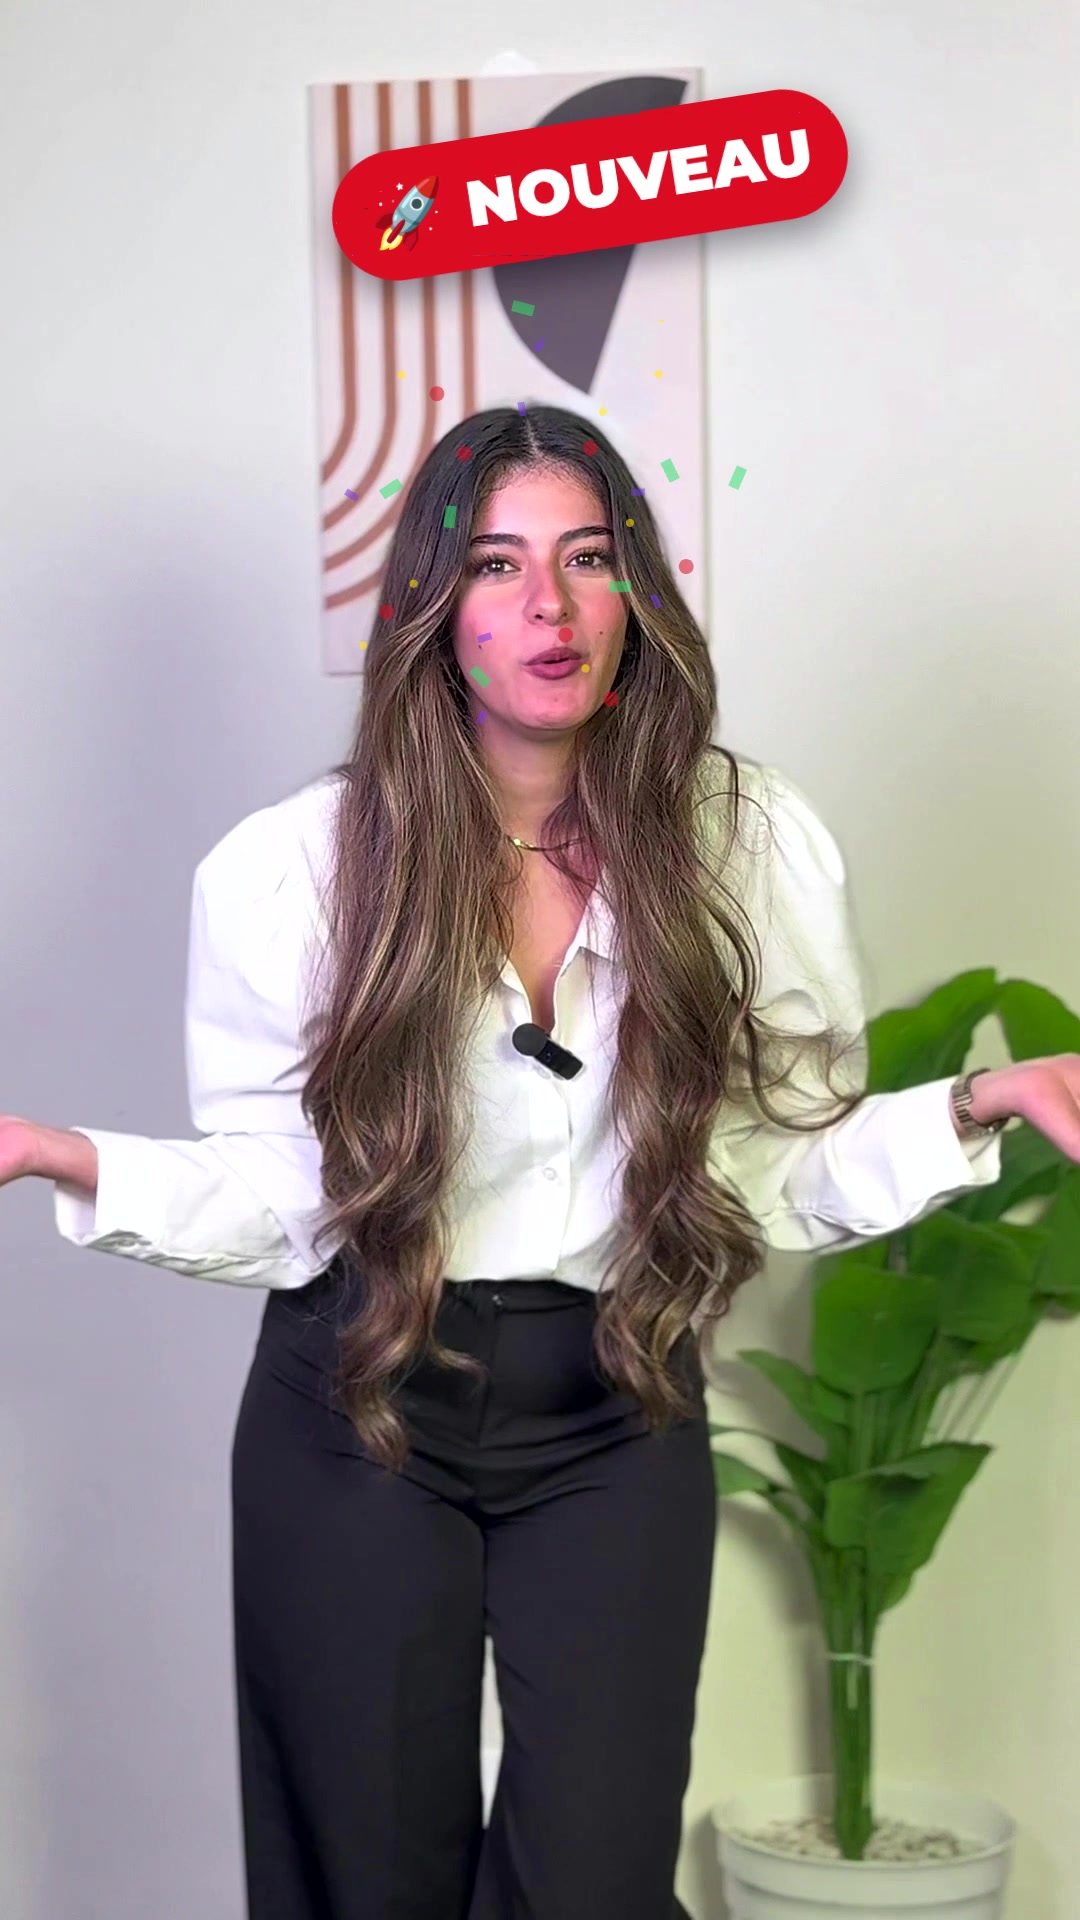
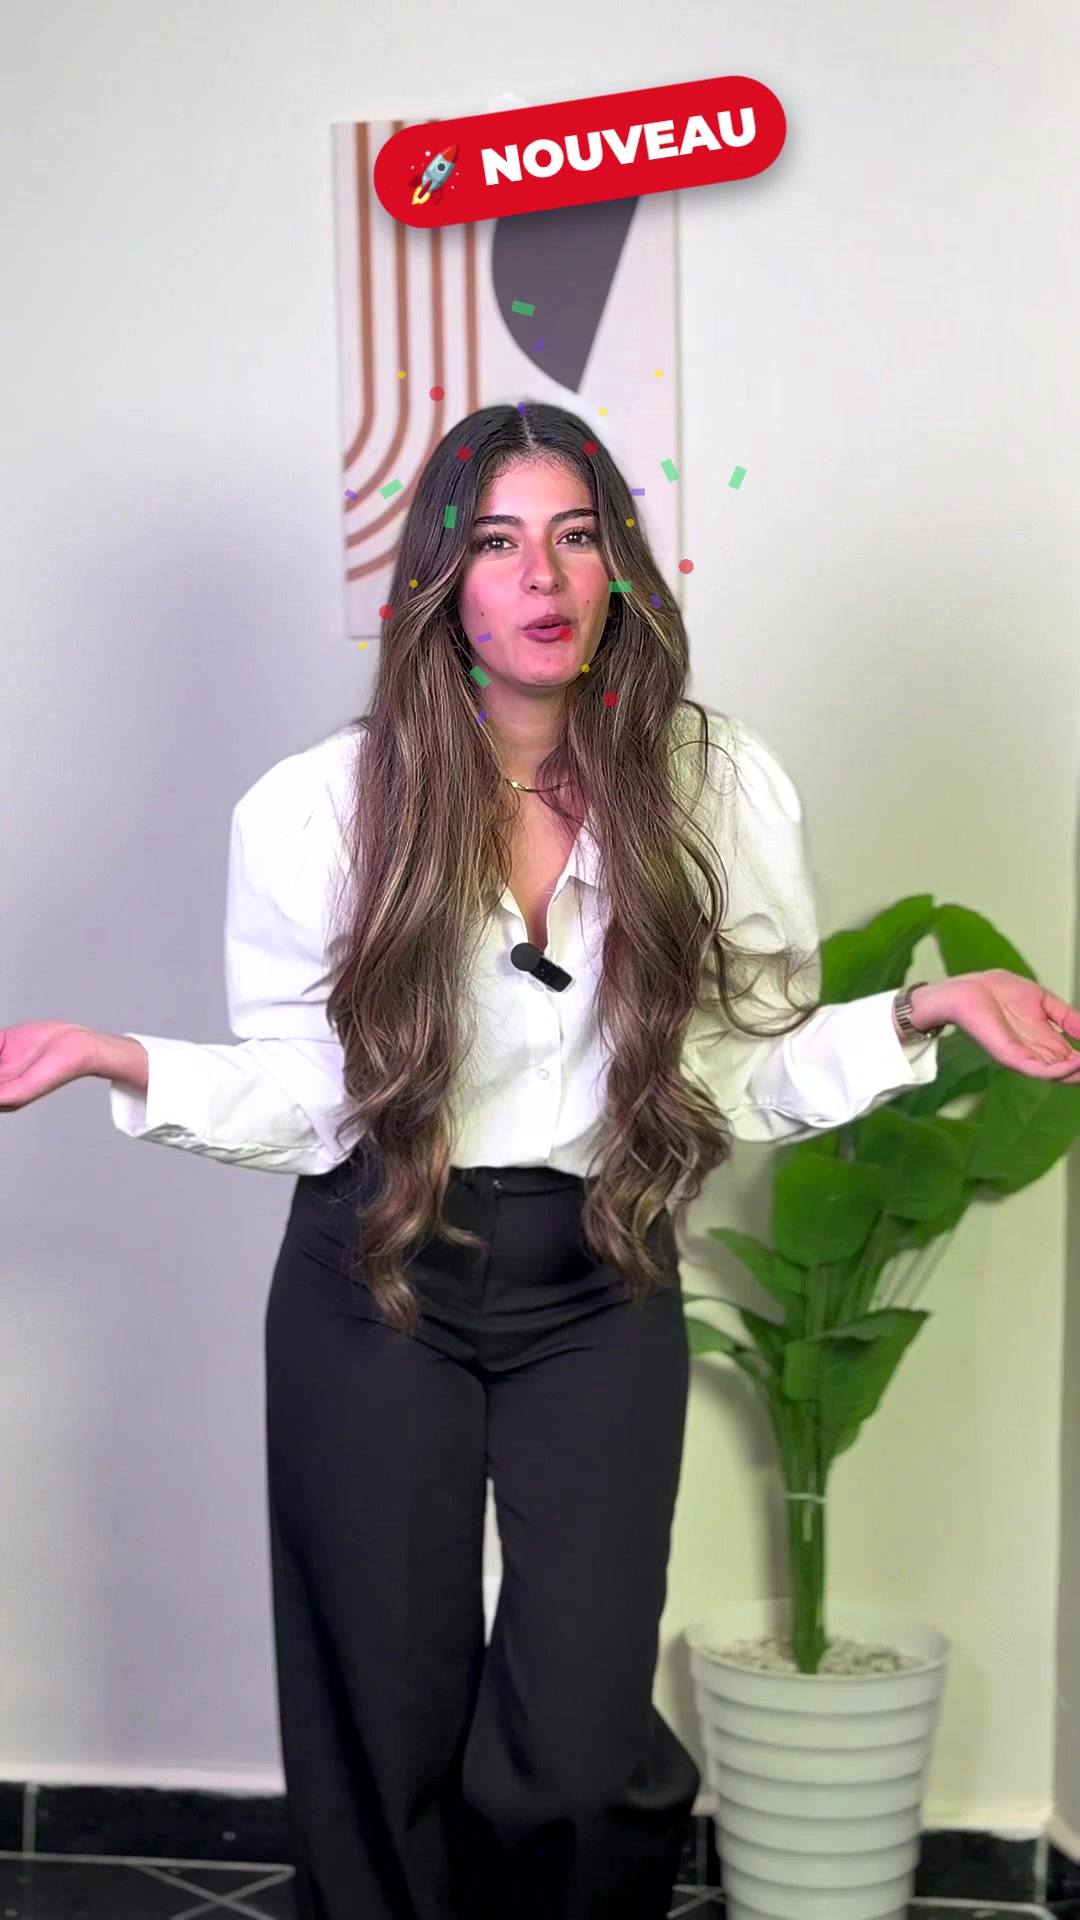
short-fasttrack-de v2: fixed framing, fewer cuts with short dissolves, music bed, graphics above the face, sign-up CTA
Claude-Session: https://claude.ai/code/session_01AxhibgRmBs7v8bGQfSccih

diff --git a/video-agent/edits/short-fasttrack-de/source/mg.html b/video-agent/edits/short-fasttrack-de/source/mg.html
@@ -22,6 +22,7 @@ body{font-family:M,sans-serif;position:relative}
 #cap .ce{color:var(--gold);font-weight:900}
 </style></head><body>
 <canvas id="fx" width="1080" height="1920"></canvas>
+<div class="g" style="position:absolute;left:0;top:0;width:1080px;height:1920px;transform-origin:540px 20px;transform:scale(.8)">
 
 <!-- A. NOUVEAU + Lougha Online ? -->
 <div id="neu" class="a pill" style="left:330px;top:120px;background:var(--red);color:#fff;font-size:64px;height:130px">🚀 NOUVEAU</div>
@@ -62,10 +63,13 @@ body{font-family:M,sans-serif;position:relative}
   <div style="text-align:center;font:900 130px M;color:var(--ink);line-height:1.2"><span id="mois">0</span></div>
   <div style="text-align:center;font:900 44px M;color:var(--violet);margin-top:-14px">MOIS</div></div>
 
+</div>
 <!-- F. le livre -->
-<svg id="ring" class="a" style="left:0;top:0" width="1080" height="1920"><circle id="ringc" cx="500" cy="1110" r="220" fill="none" stroke="#FFCE00" stroke-width="14" stroke-dasharray="1400" stroke-dashoffset="1400" stroke-linecap="round"/></svg>
-<div id="bookT" class="a pill" style="left:520px;top:840px;background:var(--gold);color:var(--ink);font-size:44px">📘 Tout est dedans</div>
+<svg id="ring" class="a" style="left:0;top:0" width="1080" height="1920"><circle id="ringc" cx="456" cy="930" r="175" fill="none" stroke="#FFCE00" stroke-width="14" stroke-dasharray="1400" stroke-dashoffset="1400" stroke-linecap="round"/></svg>
+<div id="bookT" class="a pill" style="left:560px;top:690px;font-size:40px;background:var(--gold);color:var(--ink);font-size:44px">📘 Tout est dedans</div>
 
+
+<div class="g" style="position:absolute;left:0;top:0;width:1080px;height:1920px;transform-origin:540px 20px;transform:scale(.8)">
 <!-- G. pas seul : avec le prof + exercices -->
 <div id="alone" class="a card" style="left:60px;top:80px;width:420px;height:300px;background:linear-gradient(160deg,#9A9AA8,#6B6B78)"><div style="position:absolute;inset:0;display:flex;flex-direction:column;align-items:center;justify-content:center;gap:10px"><img src="icons/bust-in-silhouette.png" width="130"><span style="font:900 48px M;color:#fff">Seul(e)</span></div></div>
 <img id="aloneX" class="a" src="icons/cross.png" style="left:180px;top:110px;width:180px">
@@ -86,6 +90,8 @@ body{font-family:M,sans-serif;position:relative}
 <!-- L. CTA -->
 <div id="clogo" class="a" style="left:430px;top:30px;width:220px;height:220px;border-radius:50%;box-shadow:0 0 0 10px #fff,0 0 60px 10px rgba(255,206,0,.55),0 24px 60px rgba(10,5,20,.45);overflow:hidden"><img src="icons/logo.png" width="220" height="220"></div>
 <div id="cname" class="a big" style="left:0;width:1080px;top:262px;text-align:center;font-size:80px">Lougha <span style="color:#E3A41F">Online</span></div>
+</div>
+<div id="cta" class="a pill" style="left:170px;top:1555px;background:#E02B2B;color:#fff;font-size:58px;height:124px;border:6px solid #fff">Inscris-toi maintenant 👉</div>
 <div id="url" class="a" style="left:160px;top:1720px;width:760px;height:130px;border-radius:999px;background:var(--cream);display:flex;align-items:center;justify-content:center;gap:20px;box-shadow:0 20px 50px rgba(10,5,20,.5);border:6px solid var(--gold);box-sizing:border-box;overflow:hidden"><img src="icons/link.png" width="74"><span style="font:900 58px M;color:var(--ink)">Loughaonline.com</span><i class="shine" id="sh4"></i></div>
 <img id="cur" class="a ds" src="icons/cursor.png" style="left:0;top:0;width:120px">
 
@@ -126,7 +132,7 @@ $('ft').innerHTML = 'FAST TRACK'.split('').map((c, i) => `<span class="ltr" styl
 $('seats').innerHTML = Array.from({ length: 10 }, (_, i) => `<div id="se${i}" style="width:120px;height:80px;border-radius:18px;background:#E6DDF8;display:flex;align-items:center;justify-content:center"><img src="icons/bust-in-silhouette.png" width="56" style="opacity:${i < 2 ? 1 : .15}"></div>`).join('');
 $('vids').innerHTML = [0, 1, 2].map(i => `<div id="vd${i}" style="position:absolute;left:${i * 335}px;top:0;width:315px;height:350px;border-radius:30px;background:linear-gradient(160deg,${['#9E83EA,#4B2A9E', '#FFE27A,#E3A41F', '#7EE2A8,#2DBE6C'][i]});box-shadow:0 18px 40px rgba(10,5,20,.4);border:6px solid #fff;box-sizing:border-box;display:flex;flex-direction:column;align-items:center;justify-content:center;gap:16px"><div style="width:120px;height:120px;border-radius:50%;background:rgba(255,255,255,.9);display:flex;align-items:center;justify-content:center"><img src="icons/play.png" width="70"></div><div style="font:900 40px M;color:#fff">${['A1 ✓', 'A2 ✓', 'B1 ✓'][i]}</div><div style="font-size:40px">⭐⭐⭐⭐⭐</div></div>`).join('');
 burst(1.0, 540, 190); burst(3.4, 900, 120, 22); burst(6.3, 540, 230, 40); burst(10.4, 885, 200); burst(13.4, 760, 330, 30, ['#E02B2B', '#fff']); burst(16.6, 360, 220, 34); burst(18.8, 870, 230, 30);
-burst(21.0, 500, 1110, 30); burst(26.9, 790, 230, 28); burst(35.6, 830, 300, 30, ['#2DBE6C', '#fff', '#FFCE00']); burst(41.6, 540, 250, 34); burst(44.6, 540, 200, 44); burst(46.6, 860, 1785, 36);
+burst(21.0, 456, 930, 30); burst(26.9, 790, 230, 28); burst(35.6, 830, 300, 30, ['#2DBE6C', '#fff', '#FFCE00']); burst(41.6, 540, 250, 34); burst(44.6, 540, 200, 44); burst(46.6, 860, 1785, 36);
 
 function draw(t) {
   // A. 0.6 - 5.3
@@ -159,7 +165,7 @@ function draw(t) {
   A('cal', t, 17.0, EE, { ry: -100, s0: .7, rot: 3 }); $('mois').textContent = t > 17.3 ? (t > 18.0 ? 2 : 1) : 0;
   $('mois').style.display = 'inline-block'; $('mois').style.transform = `rotateX(${t > 17.3 && t < 18.2 ? (1 - S(((t - 17.3) % .7), 14)) * 90 : 0}deg)`;
   // F. 20.48 - 23.3
-  A('ring', t, 20.6, 23.32, { s0: 1, soft: 1, oy: 0 }); $('ringc').style.strokeDashoffset = 1400 * (1 - S(t - 20.6, 7)); $('ringc').setAttribute('r', 220 + 8 * Math.sin(t * 7));
+  A('ring', t, 20.6, 23.32, { s0: 1, soft: 1, oy: 0 }); $('ringc').style.strokeDashoffset = 1400 * (1 - S(t - 20.6, 7)); $('ringc').setAttribute('r', 175 + 7 * Math.sin(t * 7));
   A('bookT', t, 21.0, 23.32, { s0: .2, rot: 5, y: flo(t) });
   // G. 23.57 - 31.0
   const GE = 31.02;
@@ -179,12 +185,13 @@ function draw(t) {
   A('clogo', t, 44.5, 99, { s0: .1, spin: -200, y: flo(t) });
   // name line removed: it overlapped her hair (the logo already carries the name)
   const press = t > 46.5 ? 1 - .07 * Math.sin(cl((t - 46.5) / .22) * Math.PI) : 1;
+  A('cta', t, 44.85, 99, { s0: .3, sc: 1 + .04 * Math.sin(t * 6), rot: Math.sin(t * 3) * 1.5 });
   A('url', t, 45.0, 99, { dy: 220, sc: press }); shine('sh4', t, 45.5);
   { const p = S(t - 45.8, 7); A('cur', t, 45.8, 99, { s0: 1, soft: 1, x: 1000 + (840 - 1000) * p, y: 1920 + (1800 - 1920) * p, sc: t > 46.5 && t < 46.66 ? .85 : 1, oy: 0 }); }
   drawFx(t);
 }
 
-const KEEPS = [[0.6, 11.06, 0.0], [11.3, 14.45, 10.46], [14.73, 19.62, 13.61], [20.36, 23.3, 18.5], [23.47, 27.87, 21.44], [28.36, 31.0, 25.84], [31.5, 40.03, 28.48], [40.2, 44.12, 37.01], [44.47, 45.91, 40.93], [46.28, 47.2, 42.37]], CAPS = [[[0.6, "", false]], [[2.65, "Tu", false], [2.904, "ne", false], [3.158, "connais", false], [3.412, "pas", false], [3.666, "encore", false], [3.92, "Lougha", true], [4.174, "Online", true], [4.428, "?", true]], [[5.36, "Ou", false], [5.558, "notre", false], [5.756, "nouveau", false], [5.953, "programme", false], [6.151, ":", false], [6.349, "Fast", true], [6.547, "Track", true], [6.745, "?", true]], [[7.47, "Il", false], [7.699, "te", false], [7.928, "permet", false], [8.156, "d'enchaîner", false], [8.385, "les", false], [8.614, "niveaux", false]], [[9.3, "sans", true], [9.62, "interruption.", true]], [[11.4, "Plus", false], [11.625, "besoin", false], [11.85, "d'attendre", false], [12.075, "qu'un", false], [12.3, "groupe", false]], [[12.9, "se", true], [13.22, "remplisse.", true]], [[14.83, "Avec", false], [15.066, "Fast", false], [15.301, "Track,", false], [15.537, "tu", false], [15.772, "fais", false]], [[16.4, "l'A1", true], [16.72, "et", true], [17.04, "l'A2", true], [17.36, "en", true], [17.68, "2", true], [18.0, "mois.", true]], [[19.55, "", false]], [[20.48, "Et", false], [20.693, "tu", false], [20.906, "as", false], [21.119, "ce", true], [21.332, "livre,", true]], [[21.9, "avec", false], [22.181, "tous", true], [22.462, "les", true], [22.744, "détails.", true]], [[23.57, "Ce", false], [23.825, "livre,", false], [24.08, "tu", false], [24.335, "ne", false], [24.59, "l'étudies", false], [24.845, "pas", true], [25.1, "seul", true], [25.355, ":", true]], [[26.29, "tu", false], [26.396, "l'étudies", false], [26.503, "avec", true], [26.61, "le", true], [26.716, "prof", true]], [[27.0, "et", false], [27.1, "tu", false], [27.2, "y", false], [27.3, "fais", false], [27.4, "les", true], [27.5, "exercices.", true]], [[27.8, "", false]], [[31.5, "Chez", false], [31.82, "Lougha", false], [32.14, "Online,", false]], [[33.2, "on", false], [33.52, "teste", false], [33.84, "les", false], [34.16, "étudiants", false], [34.48, "à", true], [34.8, "chaque", true], [35.12, "niveau.", true]], [[37.6, "", false]], [[40.29, "Il", false], [40.504, "y", false], [40.718, "a", false], [40.931, "plein", false], [41.145, "de", false], [41.359, "vidéos", false]], [[42.0, "avec", false], [42.25, "les", true], [42.5, "résultats", true], [42.75, "de", false], [43.0, "nos", false], [43.25, "étudiants.", false]], [[44.0, "", false]]];
+const KEEPS = [[0.6, 14.45, 0.0], [14.73, 19.62, 13.65], [20.36, 23.3, 18.34], [23.47, 27.87, 21.08], [28.36, 31.0, 25.28], [31.5, 40.03, 27.72], [40.2, 44.12, 36.05], [44.47, 47.2, 39.77]], CAPS = [[[0.6, "", false]], [[2.65, "Tu", false], [2.904, "ne", false], [3.158, "connais", false], [3.412, "pas", false], [3.666, "encore", false], [3.92, "Lougha", true], [4.174, "Online", true], [4.428, "?", true]], [[5.36, "Ou", false], [5.558, "notre", false], [5.756, "nouveau", false], [5.953, "programme", false], [6.151, ":", false], [6.349, "Fast", true], [6.547, "Track", true], [6.745, "?", true]], [[7.47, "Il", false], [7.699, "te", false], [7.928, "permet", false], [8.156, "d'enchaîner", false], [8.385, "les", false], [8.614, "niveaux", false]], [[9.3, "sans", true], [9.62, "interruption.", true]], [[11.4, "Plus", false], [11.625, "besoin", false], [11.85, "d'attendre", false], [12.075, "qu'un", false], [12.3, "groupe", false]], [[12.9, "se", true], [13.22, "remplisse.", true]], [[14.83, "Avec", false], [15.066, "Fast", false], [15.301, "Track,", false], [15.537, "tu", false], [15.772, "fais", false]], [[16.4, "l'A1", true], [16.72, "et", true], [17.04, "l'A2", true], [17.36, "en", true], [17.68, "2", true], [18.0, "mois.", true]], [[19.55, "", false]], [[20.48, "Et", false], [20.693, "tu", false], [20.906, "as", false], [21.119, "ce", true], [21.332, "livre,", true]], [[21.9, "avec", false], [22.181, "tous", true], [22.462, "les", true], [22.744, "détails.", true]], [[23.57, "Ce", false], [23.825, "livre,", false], [24.08, "tu", false], [24.335, "ne", false], [24.59, "l'étudies", false], [24.845, "pas", true], [25.1, "seul", true], [25.355, ":", true]], [[26.29, "tu", false], [26.396, "l'étudies", false], [26.503, "avec", true], [26.61, "le", true], [26.716, "prof", true]], [[27.0, "et", false], [27.1, "tu", false], [27.2, "y", false], [27.3, "fais", false], [27.4, "les", true], [27.5, "exercices.", true]], [[27.8, "", false]], [[31.5, "Chez", false], [31.82, "Lougha", false], [32.14, "Online,", false]], [[33.2, "on", false], [33.52, "teste", false], [33.84, "les", false], [34.16, "étudiants", false], [34.48, "à", true], [34.8, "chaque", true], [35.12, "niveau.", true]], [[37.6, "", false]], [[40.29, "Il", false], [40.504, "y", false], [40.718, "a", false], [40.931, "plein", false], [41.145, "de", false], [41.359, "vidéos", false]], [[42.0, "avec", false], [42.25, "les", true], [42.5, "résultats", true], [42.75, "de", false], [43.0, "nos", false], [43.25, "étudiants.", false]], [[44.0, "", false]]];
 const toSrc = ts => { let k = KEEPS[0]; for (const q of KEEPS) if (ts >= q[2]) k = q; return Math.min(k[1], k[0] + (ts - k[2])); };
 const cap = $('cap');
 function caps(t) {

diff --git a/video-agent/edits/short-fasttrack-de/source/mg.tpl.html b/video-agent/edits/short-fasttrack-de/source/mg.tpl.html
@@ -22,6 +22,7 @@ body{font-family:M,sans-serif;position:relative}
 #cap .ce{color:var(--gold);font-weight:900}
 </style></head><body>
 <canvas id="fx" width="1080" height="1920"></canvas>
+<div class="g" style="position:absolute;left:0;top:0;width:1080px;height:1920px;transform-origin:540px 20px;transform:scale(.8)">
 
 <!-- A. NOUVEAU + Lougha Online ? -->
 <div id="neu" class="a pill" style="left:330px;top:120px;background:var(--red);color:#fff;font-size:64px;height:130px">🚀 NOUVEAU</div>
@@ -62,10 +63,13 @@ body{font-family:M,sans-serif;position:relative}
   <div style="text-align:center;font:900 130px M;color:var(--ink);line-height:1.2"><span id="mois">0</span></div>
   <div style="text-align:center;font:900 44px M;color:var(--violet);margin-top:-14px">MOIS</div></div>
 
+</div>
 <!-- F. le livre -->
-<svg id="ring" class="a" style="left:0;top:0" width="1080" height="1920"><circle id="ringc" cx="500" cy="1110" r="220" fill="none" stroke="#FFCE00" stroke-width="14" stroke-dasharray="1400" stroke-dashoffset="1400" stroke-linecap="round"/></svg>
-<div id="bookT" class="a pill" style="left:520px;top:840px;background:var(--gold);color:var(--ink);font-size:44px">📘 Tout est dedans</div>
+<svg id="ring" class="a" style="left:0;top:0" width="1080" height="1920"><circle id="ringc" cx="456" cy="930" r="175" fill="none" stroke="#FFCE00" stroke-width="14" stroke-dasharray="1400" stroke-dashoffset="1400" stroke-linecap="round"/></svg>
+<div id="bookT" class="a pill" style="left:560px;top:690px;font-size:40px;background:var(--gold);color:var(--ink);font-size:44px">📘 Tout est dedans</div>
 
+
+<div class="g" style="position:absolute;left:0;top:0;width:1080px;height:1920px;transform-origin:540px 20px;transform:scale(.8)">
 <!-- G. pas seul : avec le prof + exercices -->
 <div id="alone" class="a card" style="left:60px;top:80px;width:420px;height:300px;background:linear-gradient(160deg,#9A9AA8,#6B6B78)"><div style="position:absolute;inset:0;display:flex;flex-direction:column;align-items:center;justify-content:center;gap:10px"><img src="icons/bust-in-silhouette.png" width="130"><span style="font:900 48px M;color:#fff">Seul(e)</span></div></div>
 <img id="aloneX" class="a" src="icons/cross.png" style="left:180px;top:110px;width:180px">
@@ -86,6 +90,8 @@ body{font-family:M,sans-serif;position:relative}
 <!-- L. CTA -->
 <div id="clogo" class="a" style="left:430px;top:30px;width:220px;height:220px;border-radius:50%;box-shadow:0 0 0 10px #fff,0 0 60px 10px rgba(255,206,0,.55),0 24px 60px rgba(10,5,20,.45);overflow:hidden"><img src="icons/logo.png" width="220" height="220"></div>
 <div id="cname" class="a big" style="left:0;width:1080px;top:262px;text-align:center;font-size:80px">Lougha <span style="color:#E3A41F">Online</span></div>
+</div>
+<div id="cta" class="a pill" style="left:170px;top:1555px;background:#E02B2B;color:#fff;font-size:58px;height:124px;border:6px solid #fff">Inscris-toi maintenant 👉</div>
 <div id="url" class="a" style="left:160px;top:1720px;width:760px;height:130px;border-radius:999px;background:var(--cream);display:flex;align-items:center;justify-content:center;gap:20px;box-shadow:0 20px 50px rgba(10,5,20,.5);border:6px solid var(--gold);box-sizing:border-box;overflow:hidden"><img src="icons/link.png" width="74"><span style="font:900 58px M;color:var(--ink)">Loughaonline.com</span><i class="shine" id="sh4"></i></div>
 <img id="cur" class="a ds" src="icons/cursor.png" style="left:0;top:0;width:120px">
 
@@ -126,7 +132,7 @@ $('ft').innerHTML = 'FAST TRACK'.split('').map((c, i) => `<span class="ltr" styl
 $('seats').innerHTML = Array.from({ length: 10 }, (_, i) => `<div id="se${i}" style="width:120px;height:80px;border-radius:18px;background:#E6DDF8;display:flex;align-items:center;justify-content:center"><img src="icons/bust-in-silhouette.png" width="56" style="opacity:${i < 2 ? 1 : .15}"></div>`).join('');
 $('vids').innerHTML = [0, 1, 2].map(i => `<div id="vd${i}" style="position:absolute;left:${i * 335}px;top:0;width:315px;height:350px;border-radius:30px;background:linear-gradient(160deg,${['#9E83EA,#4B2A9E', '#FFE27A,#E3A41F', '#7EE2A8,#2DBE6C'][i]});box-shadow:0 18px 40px rgba(10,5,20,.4);border:6px solid #fff;box-sizing:border-box;display:flex;flex-direction:column;align-items:center;justify-content:center;gap:16px"><div style="width:120px;height:120px;border-radius:50%;background:rgba(255,255,255,.9);display:flex;align-items:center;justify-content:center"><img src="icons/play.png" width="70"></div><div style="font:900 40px M;color:#fff">${['A1 ✓', 'A2 ✓', 'B1 ✓'][i]}</div><div style="font-size:40px">⭐⭐⭐⭐⭐</div></div>`).join('');
 burst(1.0, 540, 190); burst(3.4, 900, 120, 22); burst(6.3, 540, 230, 40); burst(10.4, 885, 200); burst(13.4, 760, 330, 30, ['#E02B2B', '#fff']); burst(16.6, 360, 220, 34); burst(18.8, 870, 230, 30);
-burst(21.0, 500, 1110, 30); burst(26.9, 790, 230, 28); burst(35.6, 830, 300, 30, ['#2DBE6C', '#fff', '#FFCE00']); burst(41.6, 540, 250, 34); burst(44.6, 540, 200, 44); burst(46.6, 860, 1785, 36);
+burst(21.0, 456, 930, 30); burst(26.9, 790, 230, 28); burst(35.6, 830, 300, 30, ['#2DBE6C', '#fff', '#FFCE00']); burst(41.6, 540, 250, 34); burst(44.6, 540, 200, 44); burst(46.6, 860, 1785, 36);
 
 function draw(t) {
   // A. 0.6 - 5.3
@@ -159,7 +165,7 @@ function draw(t) {
   A('cal', t, 17.0, EE, { ry: -100, s0: .7, rot: 3 }); $('mois').textContent = t > 17.3 ? (t > 18.0 ? 2 : 1) : 0;
   $('mois').style.display = 'inline-block'; $('mois').style.transform = `rotateX(${t > 17.3 && t < 18.2 ? (1 - S(((t - 17.3) % .7), 14)) * 90 : 0}deg)`;
   // F. 20.48 - 23.3
-  A('ring', t, 20.6, 23.32, { s0: 1, soft: 1, oy: 0 }); $('ringc').style.strokeDashoffset = 1400 * (1 - S(t - 20.6, 7)); $('ringc').setAttribute('r', 220 + 8 * Math.sin(t * 7));
+  A('ring', t, 20.6, 23.32, { s0: 1, soft: 1, oy: 0 }); $('ringc').style.strokeDashoffset = 1400 * (1 - S(t - 20.6, 7)); $('ringc').setAttribute('r', 175 + 7 * Math.sin(t * 7));
   A('bookT', t, 21.0, 23.32, { s0: .2, rot: 5, y: flo(t) });
   // G. 23.57 - 31.0
   const GE = 31.02;
@@ -179,6 +185,7 @@ function draw(t) {
   A('clogo', t, 44.5, 99, { s0: .1, spin: -200, y: flo(t) });
   // name line removed: it overlapped her hair (the logo already carries the name)
   const press = t > 46.5 ? 1 - .07 * Math.sin(cl((t - 46.5) / .22) * Math.PI) : 1;
+  A('cta', t, 44.85, 99, { s0: .3, sc: 1 + .04 * Math.sin(t * 6), rot: Math.sin(t * 3) * 1.5 });
   A('url', t, 45.0, 99, { dy: 220, sc: press }); shine('sh4', t, 45.5);
   { const p = S(t - 45.8, 7); A('cur', t, 45.8, 99, { s0: 1, soft: 1, x: 1000 + (840 - 1000) * p, y: 1920 + (1800 - 1920) * p, sc: t > 46.5 && t < 46.66 ? .85 : 1, oy: 0 }); }
   drawFx(t);

diff --git a/video-agent/edits/short-fasttrack-de/source/spec.js b/video-agent/edits/short-fasttrack-de/source/spec.js
@@ -1,5 +1,7 @@
 // Lougha Online - Fast Track (allemand A1+A2 en 2 mois). Darija voice, French captions only on the phrases we understood.
-// assets/source.mp4 = the take with silences cut + camera moves (source/camera-zoom-expr.txt); mg.html maps cut time -> take time (keeps.json).
+// v2 (creator: « trop de cuts, zooms qui coupent le visage, ajoute une musique ») : fixed framing (no zoom at all), cuts only where the take
+// already changes, each one a 0.2 s dissolve; graphics kept above her head (scaled .8); motivating music bed; « Inscris-toi maintenant » CTA.
+// assets/source.mp4 = cut + dissolved take; mg.html maps cut time -> take time (keeps.json).
 window.SPEC = {
   title: 'Lougha Online - Fast Track',
   media: { mg: { src: 'assets/mg.mov', width: 1080, alpha: true } },
@@ -10,9 +12,9 @@ window.SPEC = {
   zoom: { keys: [[0, 1]] },
   actors: [],
   scenes: [{ type: 'overlay', media: 'mg', from: 0, to: 70, layer: 'over' }],
-  music: { breaks: [] },
-  mix: { ceil: -2.2 },
+  music: { src: 'assets/music/fasttrack-bed.wav', offset: 0, breaks: [] },
+  mix: { music: -26, duck: .5, ceil: -2.2 },
   grade: false,
-  sfx: { swish: 0, accents: 0, extra: [[0.4, 'pop', 0.1], [2.8, 'pop', 0.08], [5.7, 'thud', 0.45], [9.8, 'pop', 0.08], [12.51, 'thud', 0.45], [15.48, 'pop', 0.1], [17.68, 'bell', 0.1], [19.14, 'pop', 0.1], [22.57, 'thud', 0.35], [24.87, 'pop', 0.08], [32.48, 'thud', 0.45], [38.41, 'pop', 0.1], [41.06, 'pop', 0.1], [42.59, 'tap', 0.12]] },   // short times
+  sfx: { swish: 0, accents: 0, extra: [[0.4, 'pop', 0.1], [2.8, 'pop', 0.08], [5.7, 'thud', 0.4], [9.8, 'pop', 0.08], [12.75, 'thud', 0.4], [15.52, 'pop', 0.1], [17.72, 'bell', 0.1], [18.98, 'pop', 0.1], [22.21, 'thud', 0.3], [24.51, 'pop', 0.08], [31.72, 'thud', 0.4], [37.45, 'pop', 0.1], [40.2, 'pop', 0.1], [41.8, 'tap', 0.12]] },   // short times
   captions: { hide: [[0, 99]] },
 };

diff --git a/video-agent/edits/short-fasttrack-de/source/build-mg.py b/video-agent/edits/short-fasttrack-de/source/build-mg.py
@@ -27,7 +27,7 @@ FR = [
  (42.00, "avec *les résultats* de nos étudiants."),
  (44.00, ""),
 ]
-END = 47.2
+END = 47.1
 def parse(s):
     out, emph = [], False
     for tok in s.split(' '):
